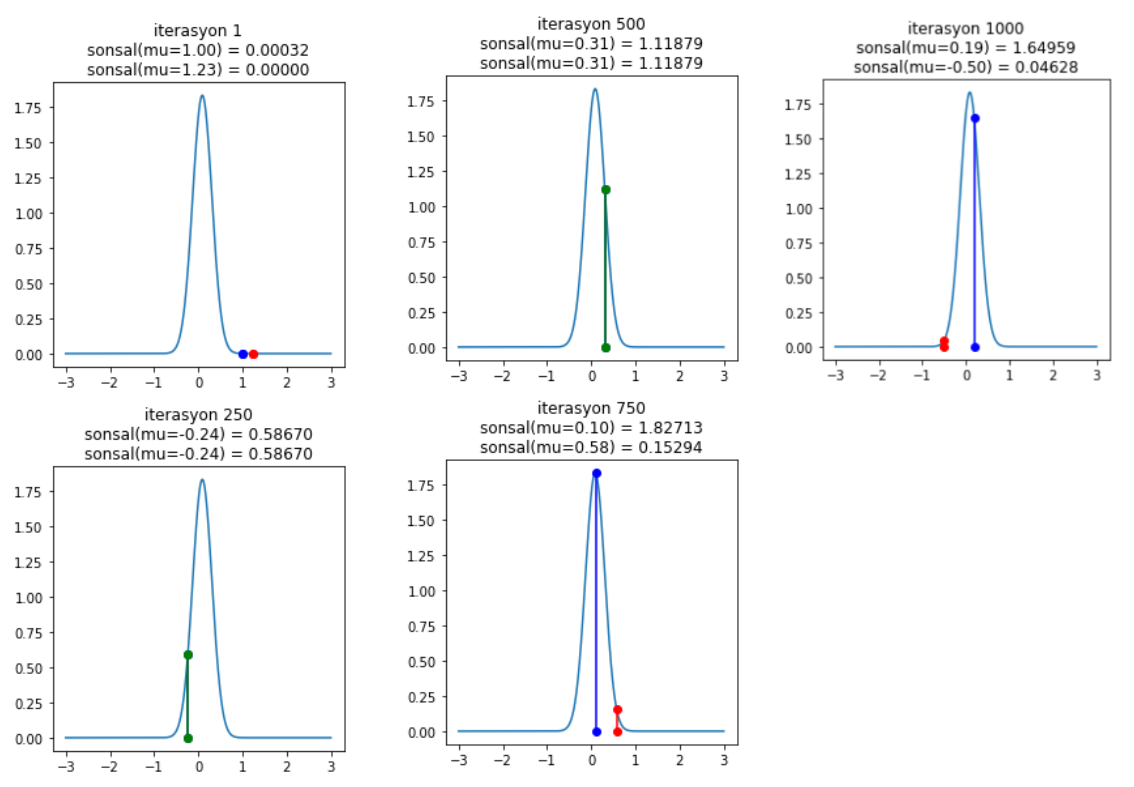
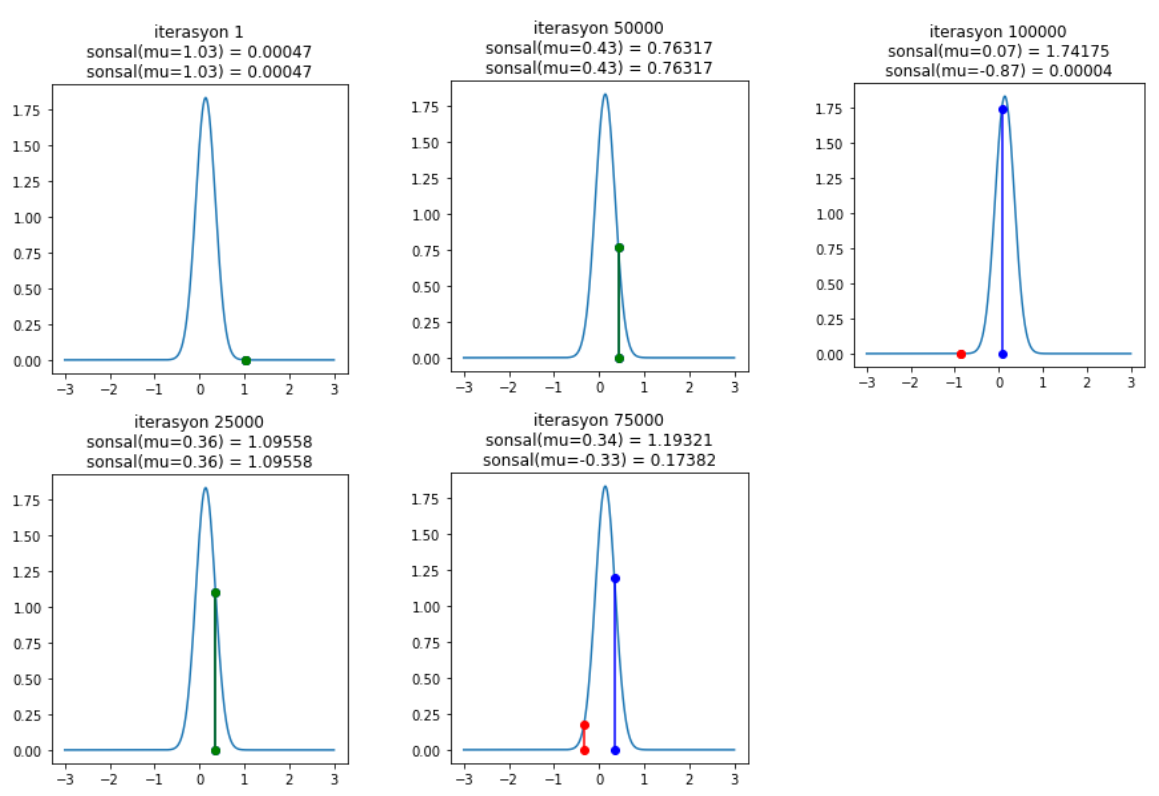
simülasyon parametreleri değiştirilerek mzmc yeniden çalıştırıldı

diff --git a/_posts/2020-03-15-markov-zincir-monte-carlo.md b/_posts/2020-03-15-markov-zincir-monte-carlo.md
@@ -400,11 +400,11 @@ Yani rasgele yönlere atlamayı öneriyoruz, önerilerden hangisinin olasılığ
 Şimdi MZMC'nin koduna ve nasıl sonuçlar ürettiğine bakalım. 
 
 ```python
-N = 1000
+N = 100000
 mu_guncel = 1.0
-mu_oncul_mu=1.0
-mu_oncul_ss=1.0
-oneri_genislik=.5
+mu_oncul_mu= 1.0
+mu_oncul_ss= 1.0
+oneri_genislik= 0.5
 sonsal = [mu_guncel]
 for i in range(N):
     # yeni konum öner
@@ -434,7 +434,7 @@ for i in range(N):
     sonsal.append(mu_guncel)
 
     # sonsal dağılımı ve önerileri çizdir
-    if i==0 or (i+1)%250==0:
+    if i==0 or (i+1)%25000==0:
       fig, (ax1) = plt.subplots(ncols=1, figsize=(4, 4))
       x = np.linspace(-3, 3, 5000)
       color = 'g' if kabul else 'r'
@@ -455,7 +455,7 @@ Bu algoritmayı çalıştırınca şöyle sonuçlar görmeye başlarsın.
 <img src="/images/mcmc_5.png" width="65%" height="65%">
 </p>
 
-$1.$, $750$. ve $1000.$ iterasyonda önerilen yerlerin nasıl reddedildiğine dikkat et. Gösterimsel olarak kalabalık olmasın diye her $250$ adımda bir çizdiriyoruz ancak sen istersen her bir adımda kabul/reddin nasıl olduğunu incele. Sonuç olarak MZMC sonsal dağılımı buluyor ve en yüksek olasılığın $\mu = 0$ civarında olduğunu gösteriyor. 
+$75,000$. ve $100,000.$ iterasyonda önerilen yerlerin nasıl reddedildiğine dikkat et. Gösterimsel olarak kalabalık olmasın diye her $25000$ adımda bir çizdiriyoruz ancak sen istersen her bir adımda kabul/reddin nasıl olduğunu incele. Sonuç olarak MZMC sonsal dağılımı buluyor ve en yüksek olasılığın $\mu = 0$ civarında olduğunu gösteriyor. 
 
 MZMC ile elde ettiğimiz sonsal dağılımı analitik dağılımla karşılaştıralım.
 
@@ -464,7 +464,7 @@ import seaborn as sns
 
 ax = plt.subplot()
 sns.distplot(np.array(sonsal[500:]), ax=ax, label='sonsal kestirim')
-x = np.linspace(-.5, .5, 500)
+x = np.linspace(-1.0, 1.0, 500)
 sons = sonsal_analitik_hesapla(gozlem, x, 0, 1)
 ax.plot(x, sons, 'g', label='analitik sonsal')
 _ = ax.set(xlabel='mu', ylabel='güvenilirlik (inanç)');
